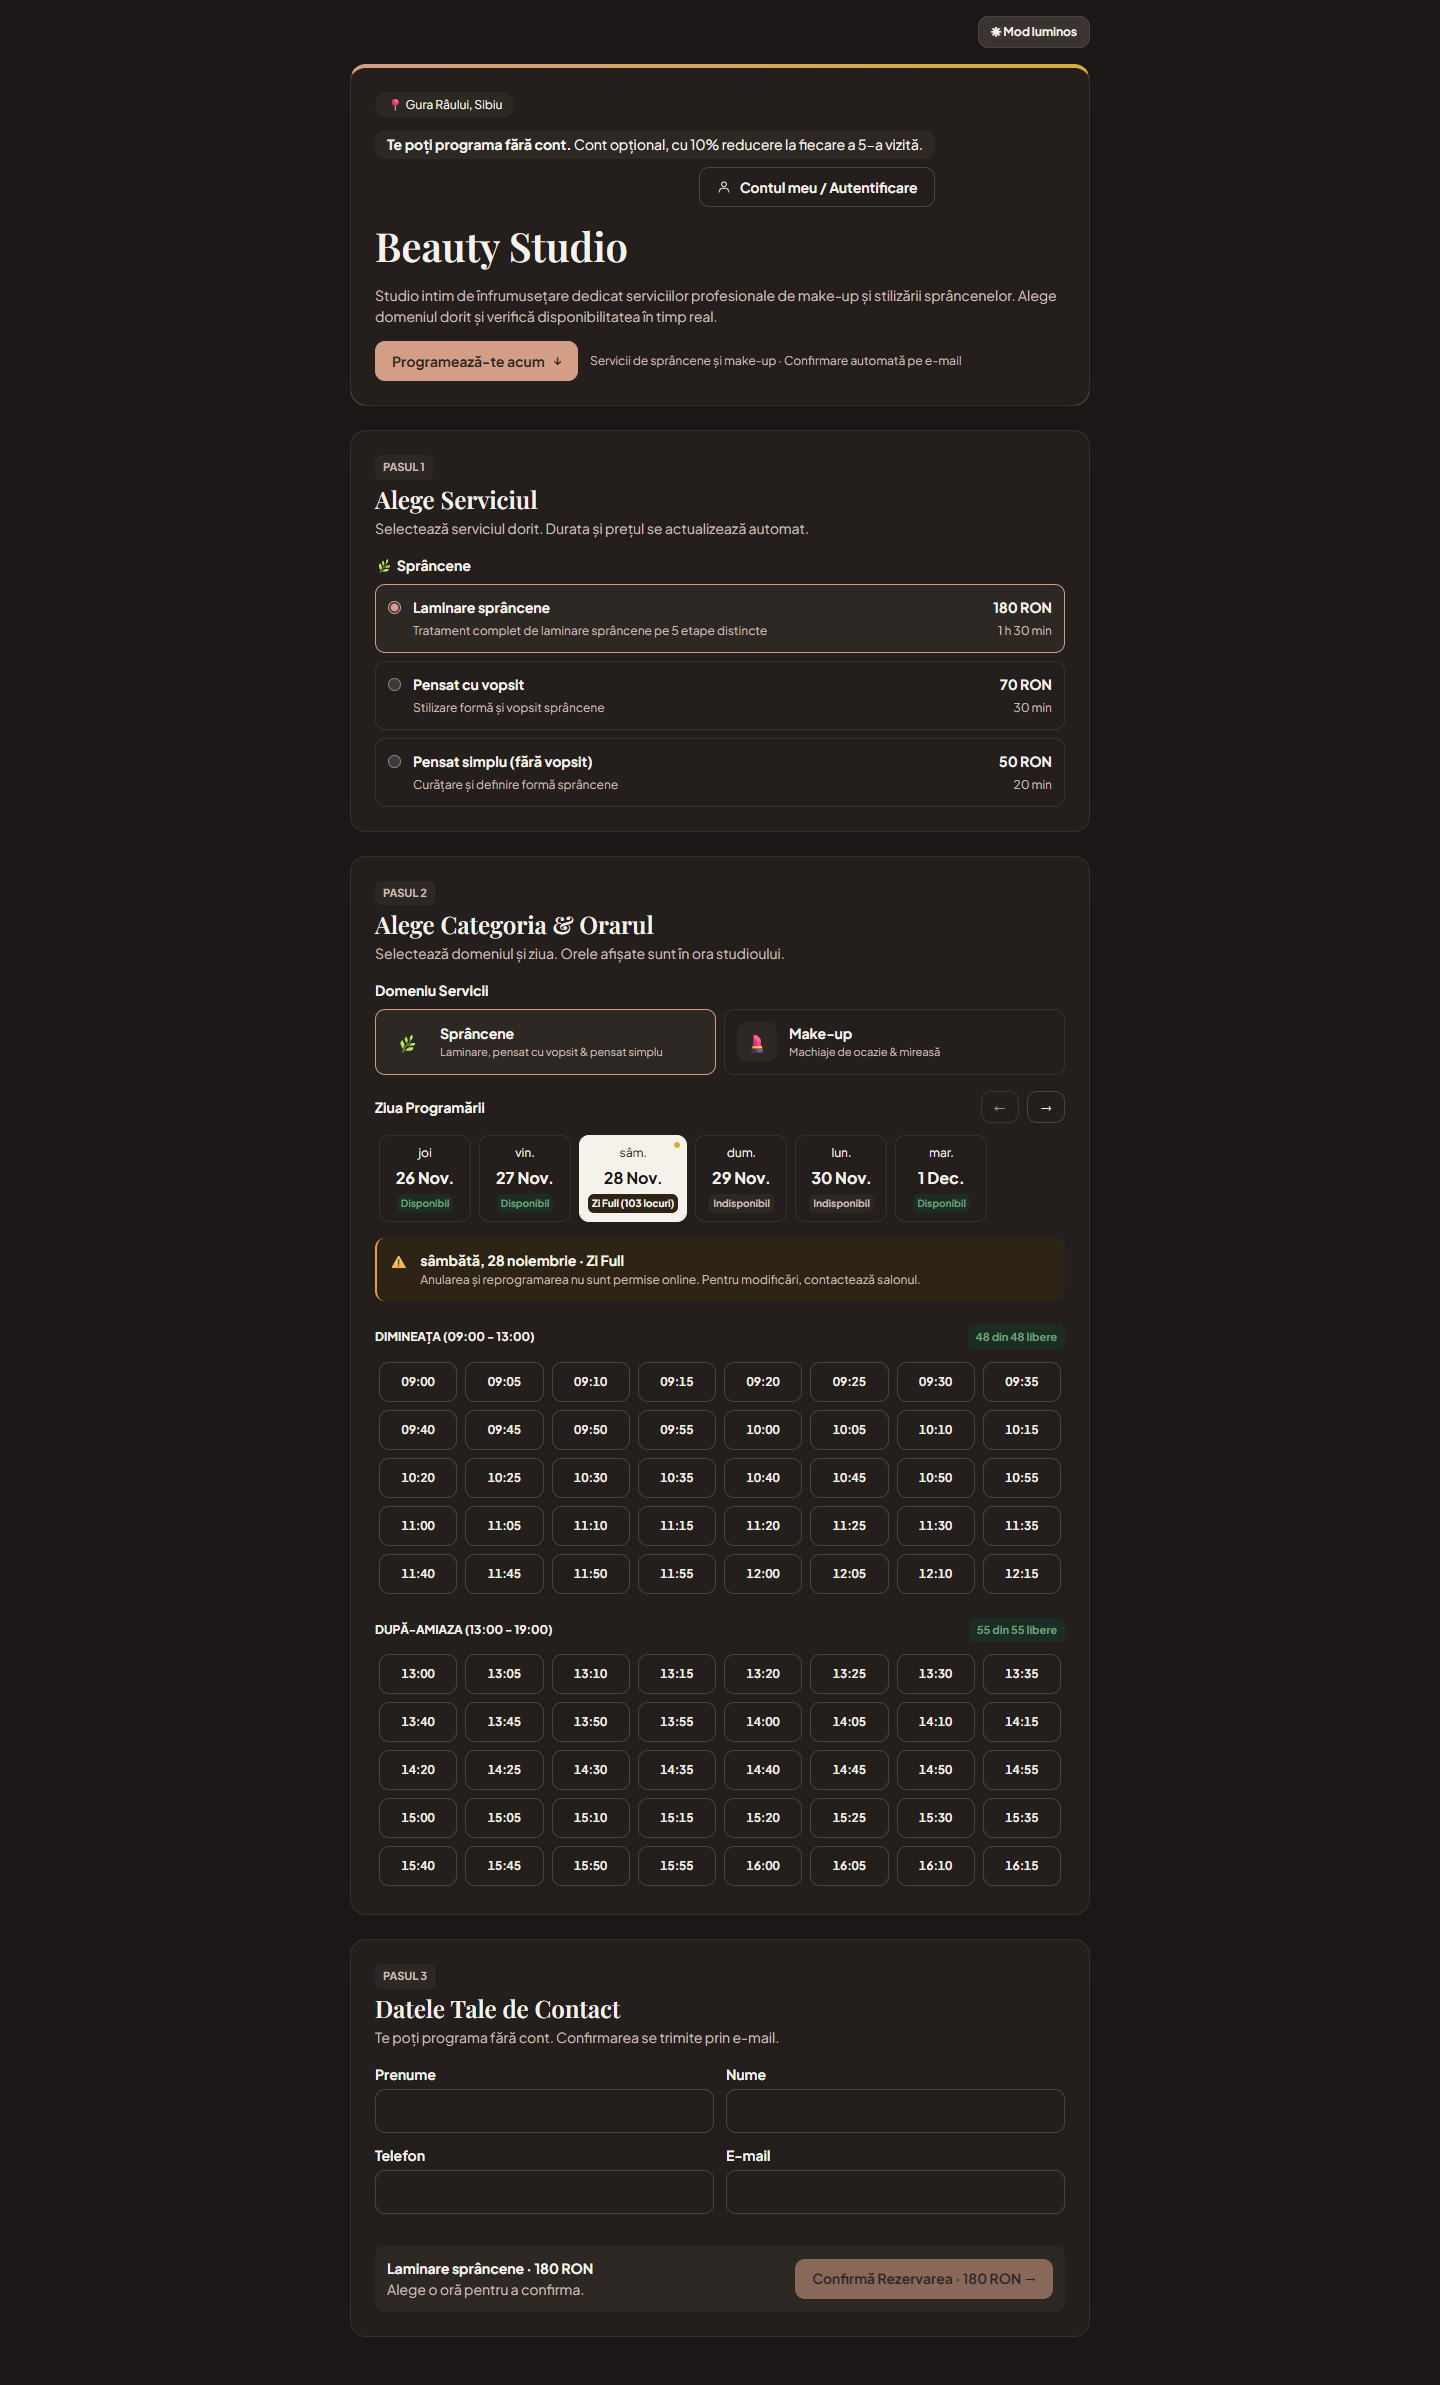
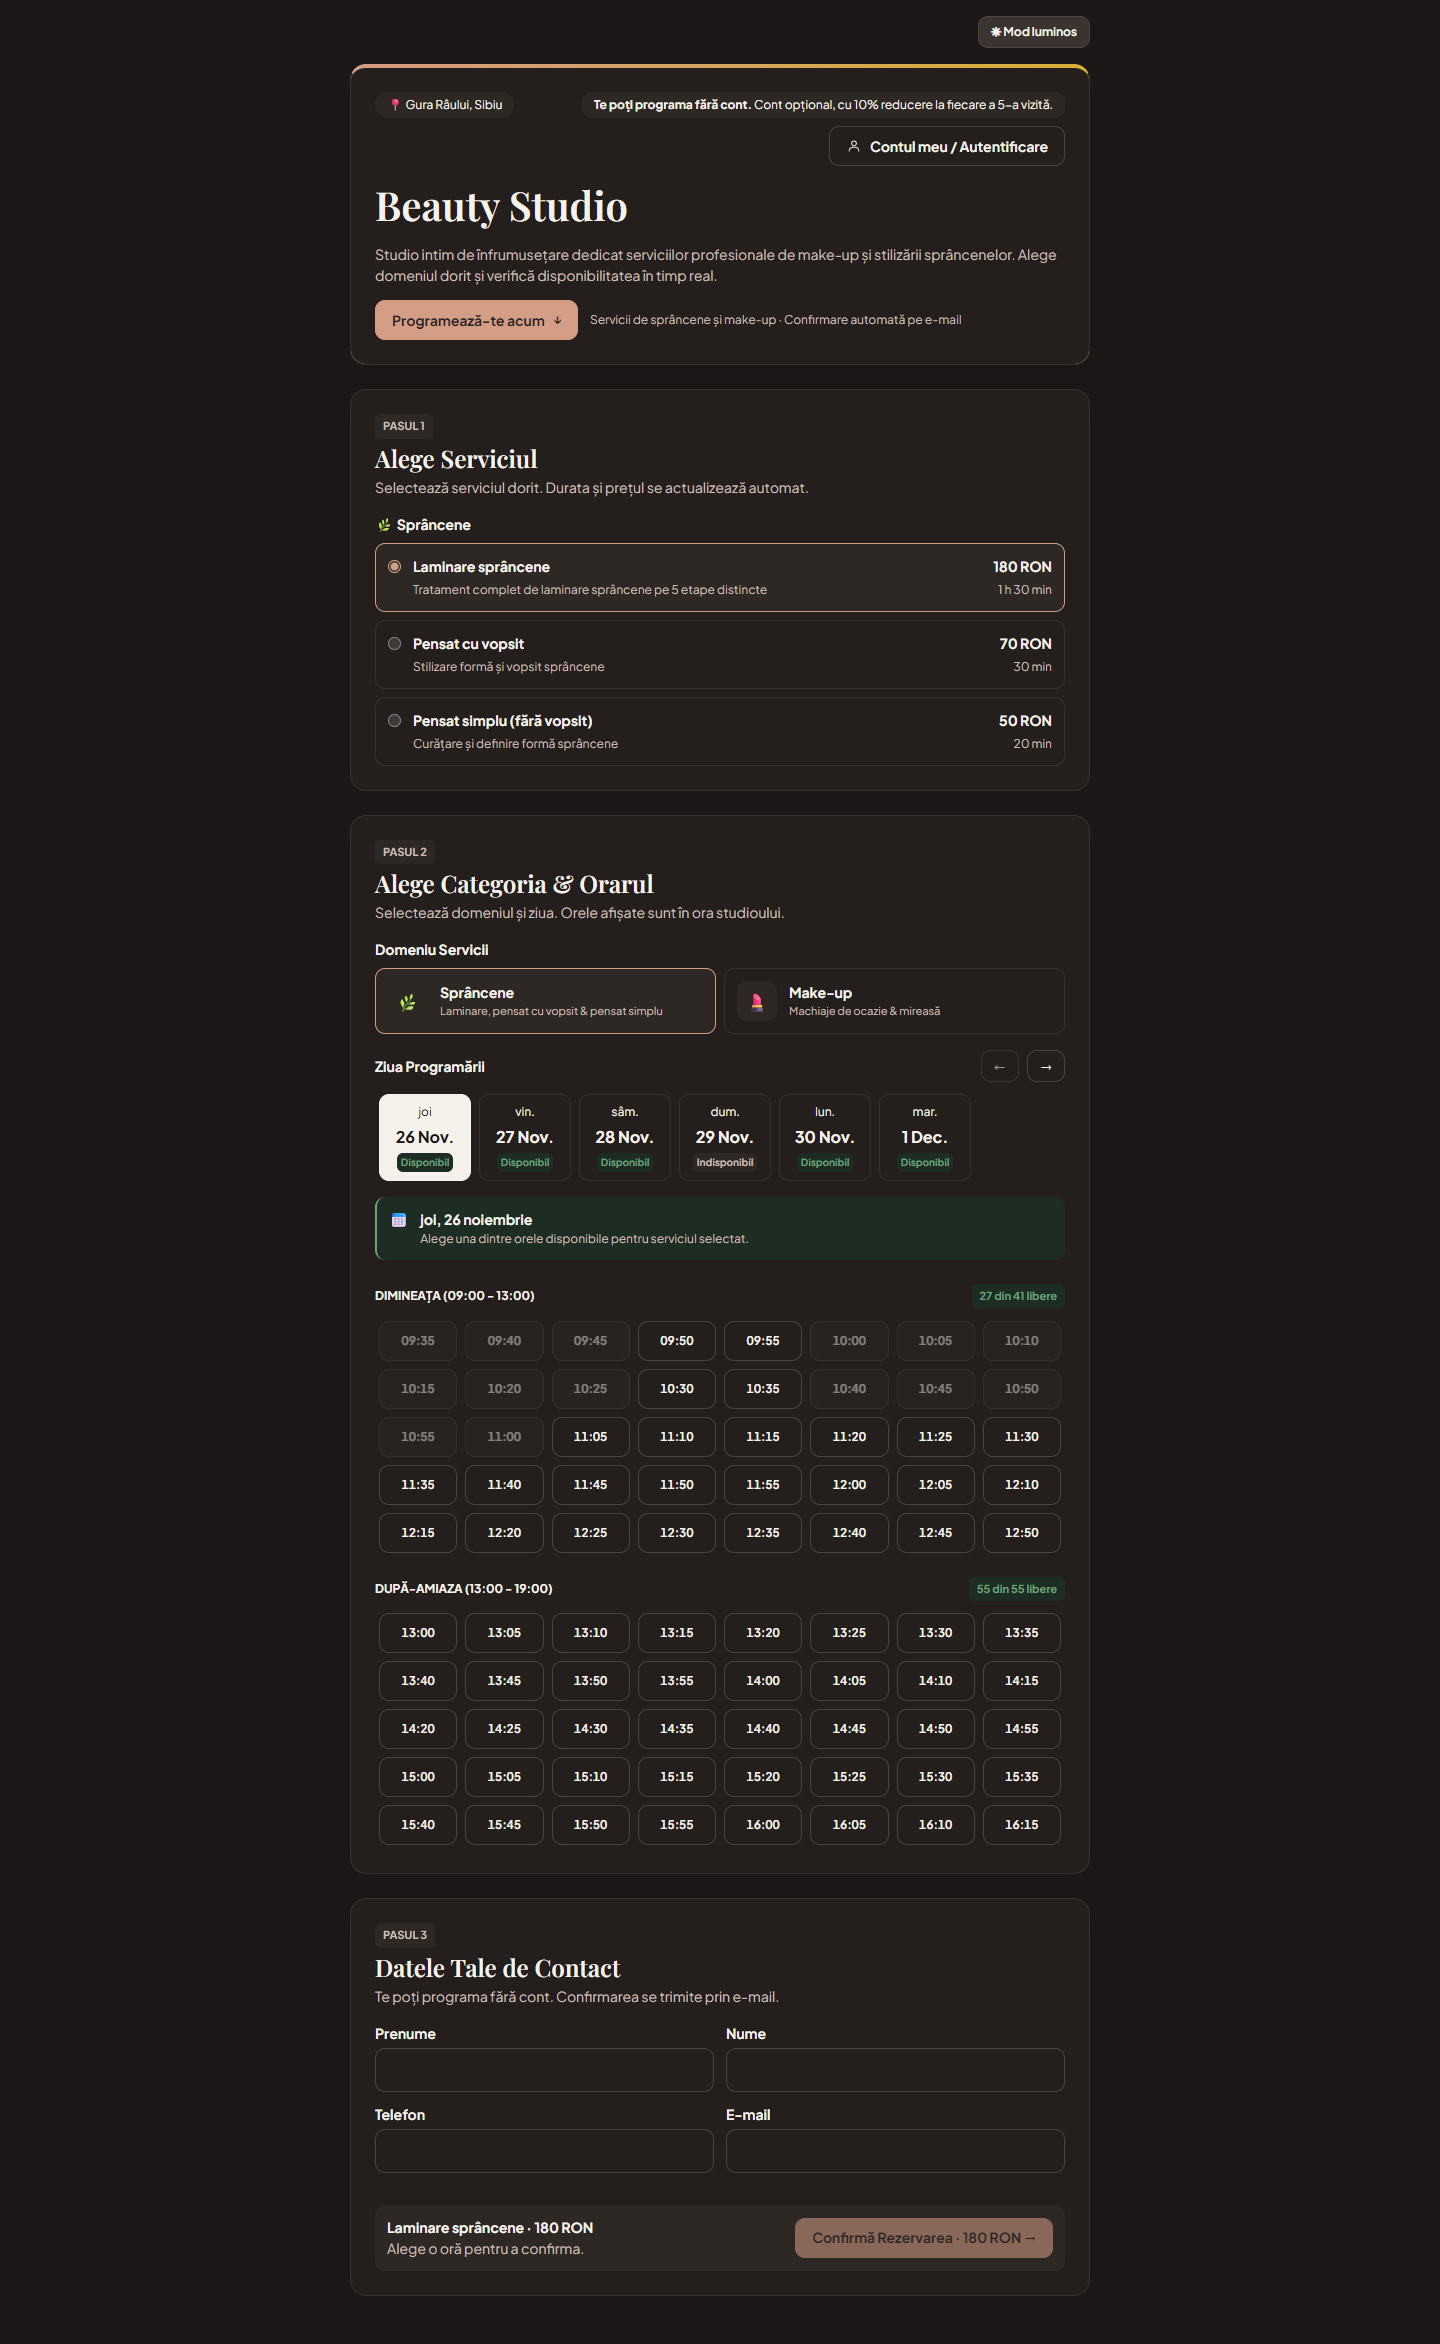
style(sprint-3): align client account button to right edge of hero card

diff --git a/frontend/src/styles.css b/frontend/src/styles.css
@@ -210,8 +210,8 @@ button:disabled { cursor: not-allowed; opacity: .55; }
 .studio-header h1 { margin: 0; }
 .studio-top { align-items: flex-start; }
 .location { border-radius: 9999px; white-space: nowrap; }
-.guest-notice { margin: 0; font-weight: 400; }
-.account-actions { display: grid; justify-items: end; gap: 8px; max-width: 100%; }
+.guest-notice { margin: 0; font-size: 12px; font-weight: 400; text-align: end; }
+.studio-account-actions { display: grid; justify-items: end; gap: 8px; margin-inline-start: auto; max-width: 100%; }
 .account-link { display: inline-flex; align-items: center; gap: 8px; }
 .hero-actions { display: flex; align-items: center; flex-wrap: wrap; gap: 12px; }
 .hero-actions span { font-size: 12px; color: var(--secondary); }
@@ -408,7 +408,8 @@ a.primary-button, a.secondary-button { display: inline-flex; align-items: center
 
 @media (max-width: 480px) {
   .studio-header { padding: 16px; }
-  .account-actions { justify-items: start; }
+  .studio-account-actions { justify-items: start; margin-inline-start: 0; }
+  .guest-notice { text-align: start; }
   .domain-pills { grid-template-columns: 1fr; }
   .booking-summary button { width: 100%; }
   .appointment-card { gap: 8px; padding: 8px; }

diff --git a/frontend/src/pages/public/BookingWizardPage.tsx b/frontend/src/pages/public/BookingWizardPage.tsx
@@ -112,7 +112,7 @@ export function BookingWizardPage() {
     <header className="card studio-header">
       <div className="studio-top">
         <span className="location">📍 Gura Râului, Sibiu</span>
-        <div className="account-actions">
+        <div className="studio-account-actions">
           <p className="guest-notice"><strong>Te poți programa fără cont.</strong> Cont opțional, cu 10% reducere la fiecare a 5-a vizită.</p>
           <a href="/cont" className="secondary-button account-link">
             <svg width="16" height="16" viewBox="0 0 24 24" fill="none" stroke="currentColor" strokeWidth="1.5" strokeLinecap="round" aria-hidden="true">
